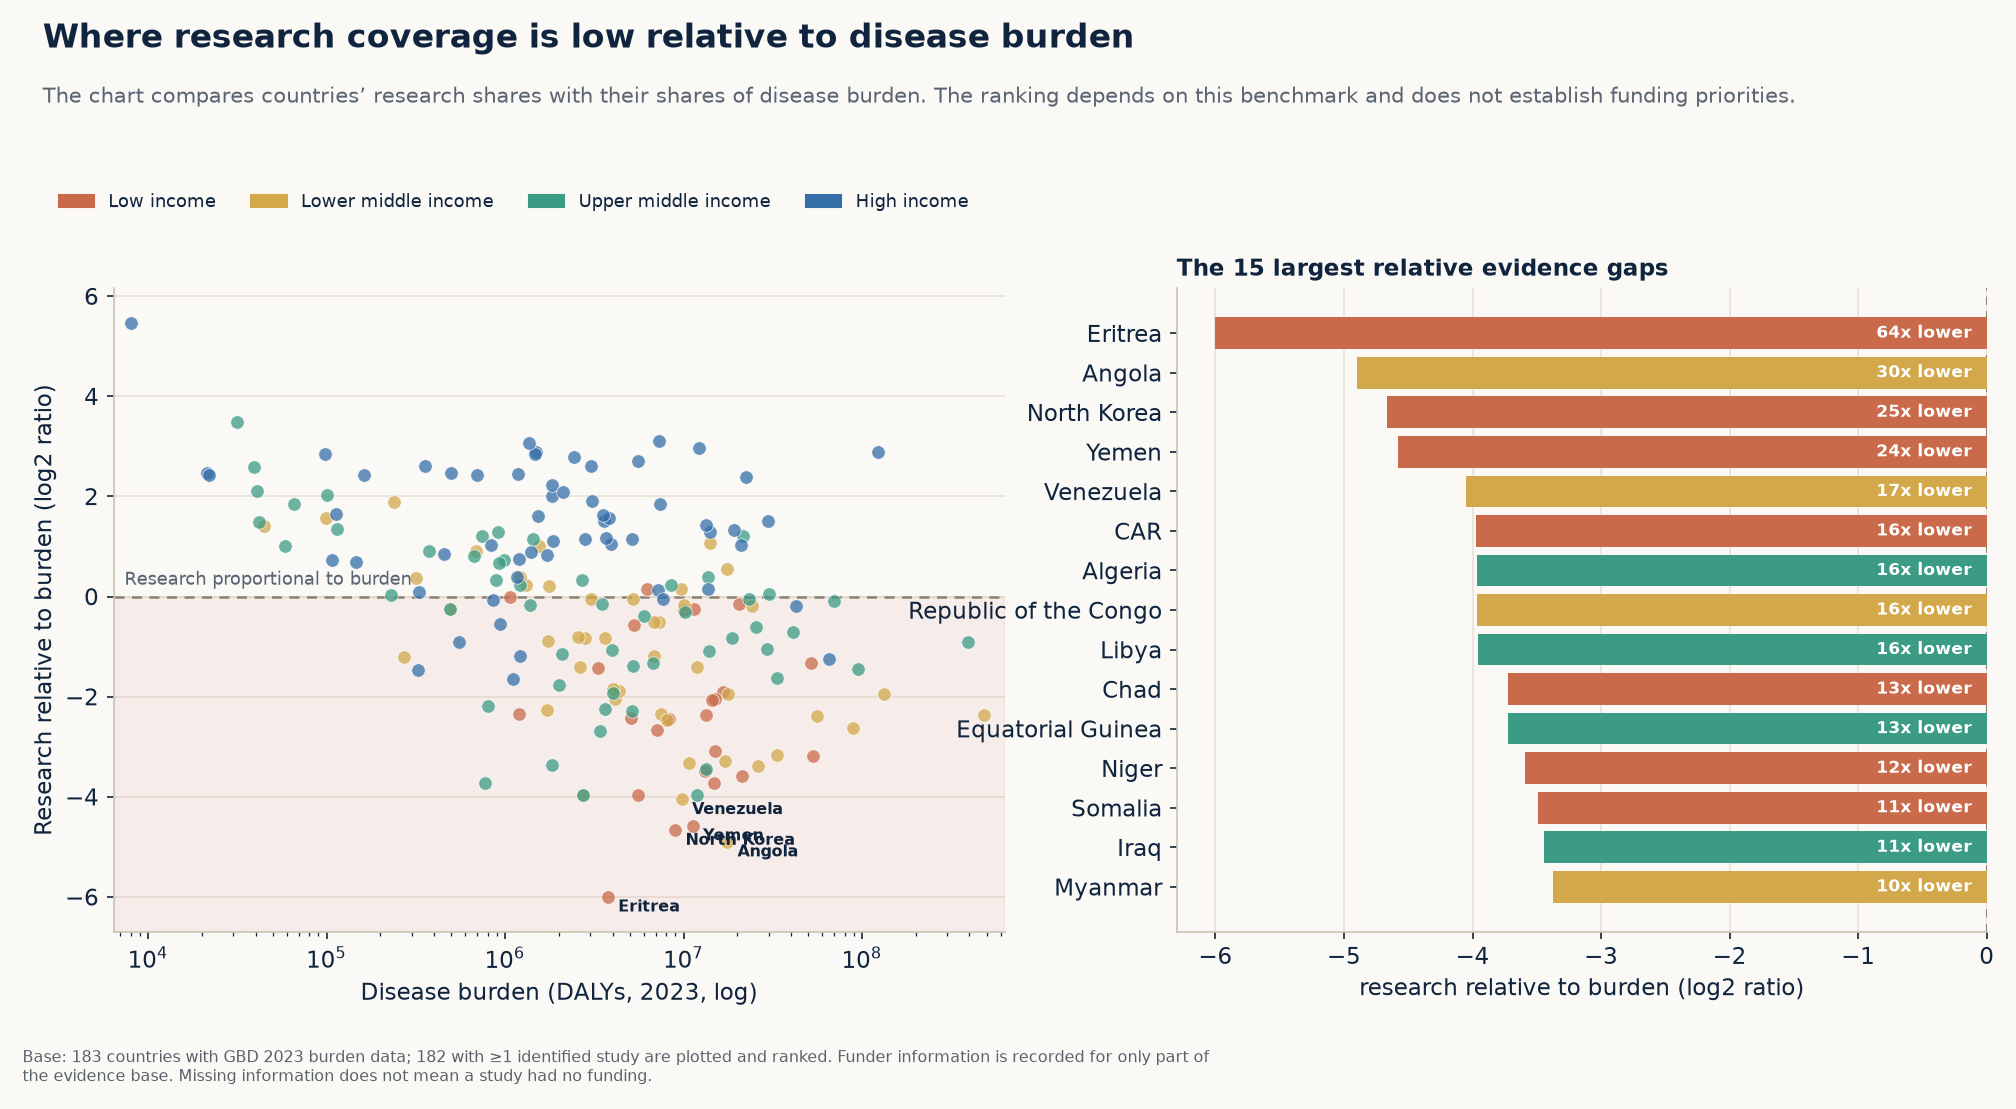
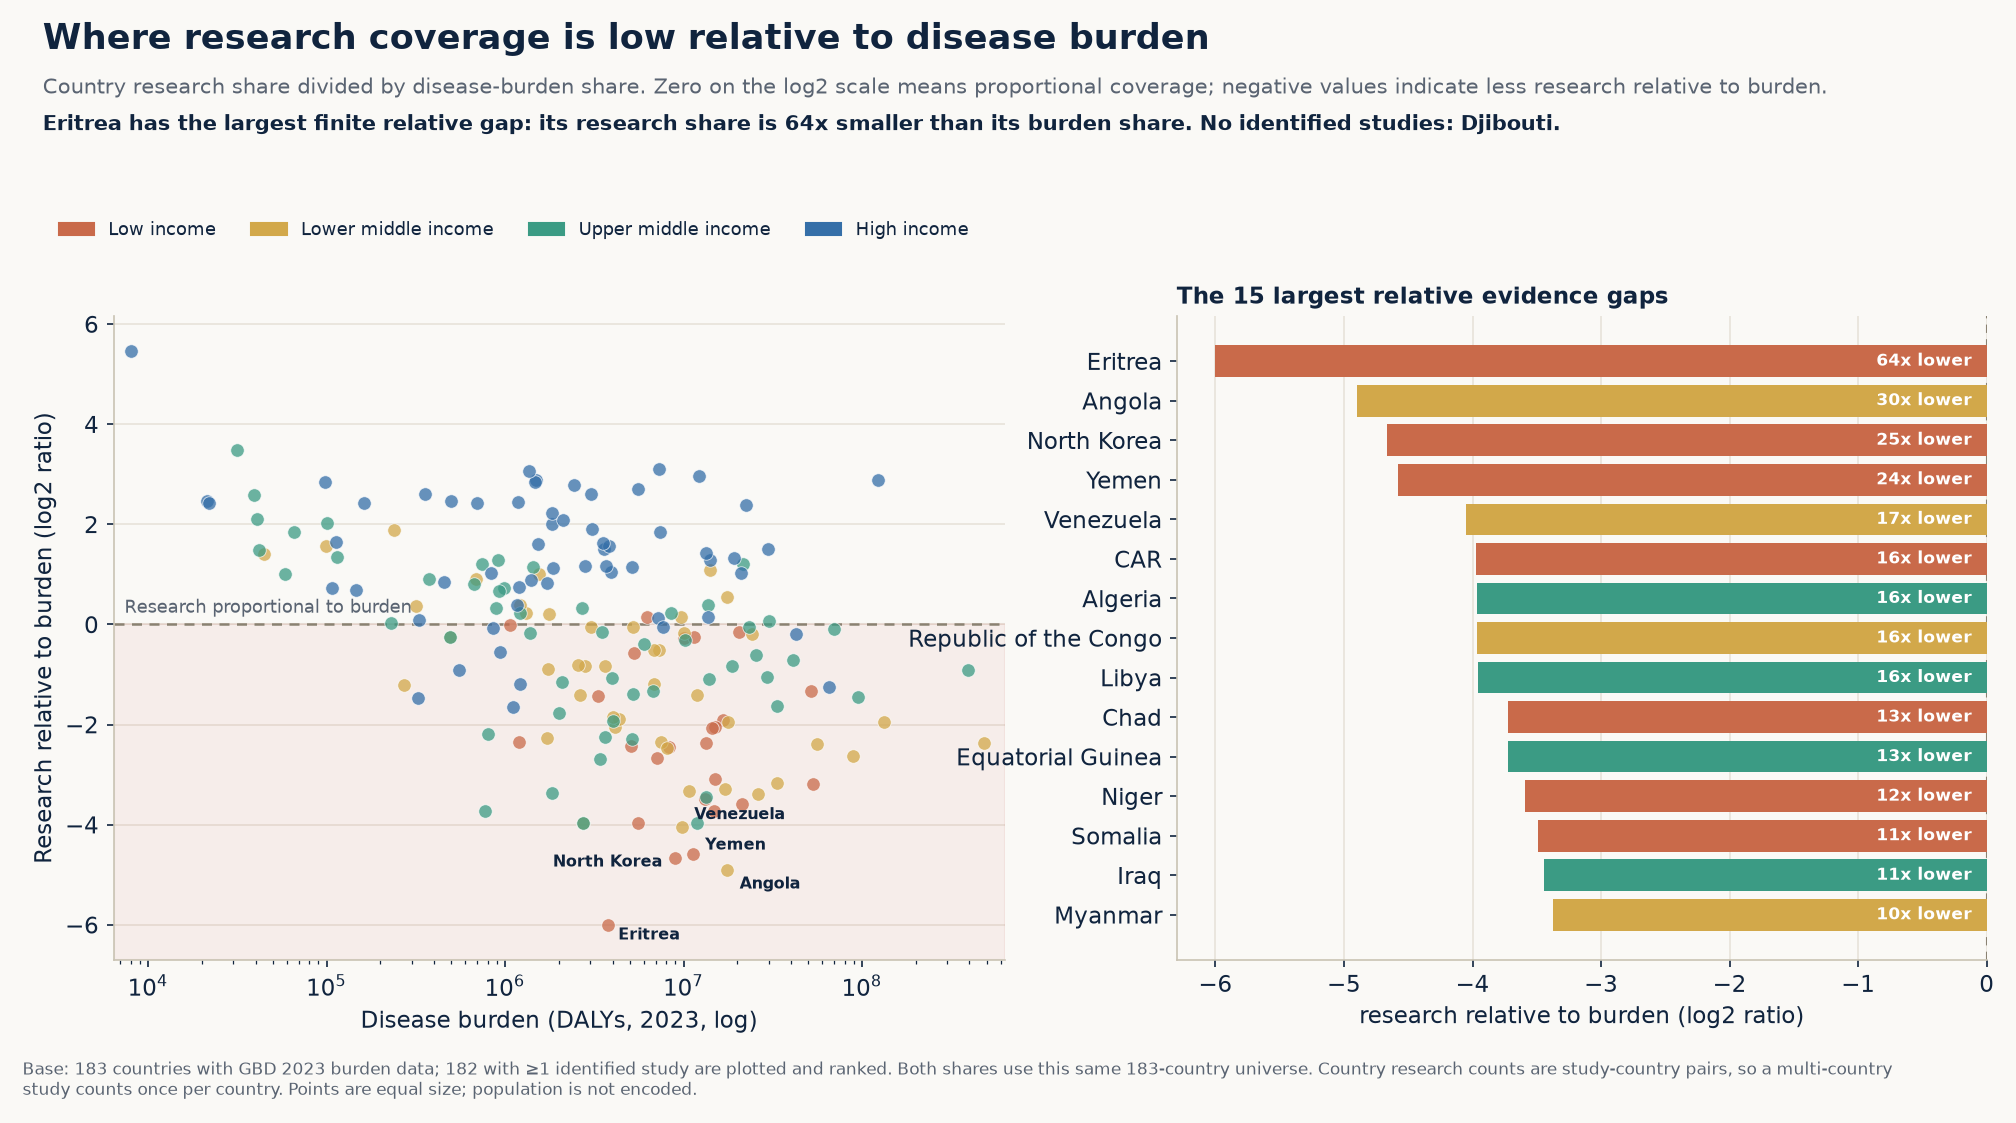
Move burden scorecard to geography; hide health aid card
fig_funder_scorecard uses only country study counts and GBD burden, no
funder data: move it to Geographic inequalities, drop the "Funding
priority scorecard" headline and the funder warning, and space out the
overlapping country labels. Hide the "Health aid, spending and research"
card (all five sections) from Thematic analysis; content stays in
content.json.

diff --git a/docs/app.js b/docs/app.js
@@ -3589,7 +3589,9 @@ if (typeof document !== "undefined") {
 
     // Sections listed here stay in content.json (and their figures stay built)
     // but are hidden from the Thematic analysis tab.
-    const HIDDEN_SECTIONS = new Set(["Pipeline"]);
+    // The "Health aid, spending and research" group card is hidden with all five of its sections.
+    const HIDDEN_SECTIONS = new Set(["Pipeline", "The financing backdrop", "Where financing and evidence diverge",
+      "How research priorities differ", "How research responds over time", "USA sensitivity analysis"]);
     const HIDDEN_FIGS = new Set(["fig_wellcome_priorities.png"]);
     GALLERY = (db.content.gallery || [])
       .filter(sec => !HIDDEN_SECTIONS.has(sec.title))

diff --git a/docs/dex_hff/build_figures_v2_4.py b/docs/dex_hff/build_figures_v2_4.py
@@ -1893,10 +1893,14 @@ ax1.axhspan(y_min_sc, 0, color="#c0392b", alpha=0.06, zorder=1)
 ax1.axhline(0, color="#8a8272", linewidth=1.2, linestyle=(0, (4, 3)), zorder=2)
 ax1.text(x_min_sc * 1.15, 0.15, "Research proportional to burden", ha="left", va="bottom",
          fontsize=8.5, color=SUBHEAD_COLOR)
+# North Korea, Yemen, Angola and Venezuela sit close together, so spread their labels apart
+SC_LABEL_OFFSETS = {"North Korea": (-6, -4, "right"), "Yemen": (6, 2, "left"),
+                    "Angola": (6, -9, "left"), "Venezuela": (6, 4, "left")}
 for _, row in top_deficit_sc.head(5).iterrows():
-    ax1.annotate(SHORT_COUNTRY.get(row["country"], row["country"]),
-                 xy=(row["dalys"], row["log2_research_to_burden"]), xytext=(5, -7),
-                 textcoords="offset points", fontsize=7.8, fontweight="bold", color=INK)
+    label = SHORT_COUNTRY.get(row["country"], row["country"])
+    dx, dy, ha = SC_LABEL_OFFSETS.get(label, (5, -7, "left"))
+    ax1.annotate(label, xy=(row["dalys"], row["log2_research_to_burden"]), xytext=(dx, dy),
+                 textcoords="offset points", ha=ha, fontsize=7.8, fontweight="bold", color=INK)
 
 ax1.set_xlabel("Disease burden (DALYs, 2023, log)")
 ax1.set_ylabel("Research relative to burden (log2 ratio)")
@@ -1920,7 +1924,7 @@ ax2.set_title(f"The {TOP_N_DEFICIT_SC} largest relative evidence gaps", fontsize
 clean_axes(ax2)
 
 lowest_sc = top_deficit_sc.iloc[0]
-sc_headline = "Funding priority scorecard: research relative to burden"
+sc_headline = "Where research coverage is low relative to disease burden"
 sc_desc = ("Country research share divided by disease-burden share. Zero on the log2 scale means proportional "
            "coverage; negative values indicate less research relative to burden.")
 sc_finding = (f"{lowest_sc['country']} has the largest finite relative gap: its research share is "
@@ -5667,6 +5671,7 @@ gallery = [
             fig_entry("fig_burden.png", "Research intensity vs. disease burden"),
             fig_entry("fig_deficit.png", "Studies vs. a burden-proportional share"),
             fig_entry("fig_injustice.png", "Research relative to disease burden"),
+            fig_entry("fig_funder_scorecard.png", "Largest gaps relative to disease burden"),
             fig_entry("fig_equity_time.png", "L&MICs research share over time"),
             fig_entry("fig_inequality.png", "Evidence concentration among L&MICs"),
             fig_entry("fig_forest.png", "Adjusted odds ratios by income group"),
@@ -5706,7 +5711,6 @@ gallery = [
         ] + ([
             fig_entry("fig_funder_authorship_alluvial.png",
                       "Funder to financing function to authorship")] if have_authors else []) + [
-            fig_entry("fig_funder_scorecard.png", "Funding priority scorecard"),
         ],
     } if have_funders else None,
     # "Global financing context" is a group card (SECTION_GROUPS in app.js) holding these
